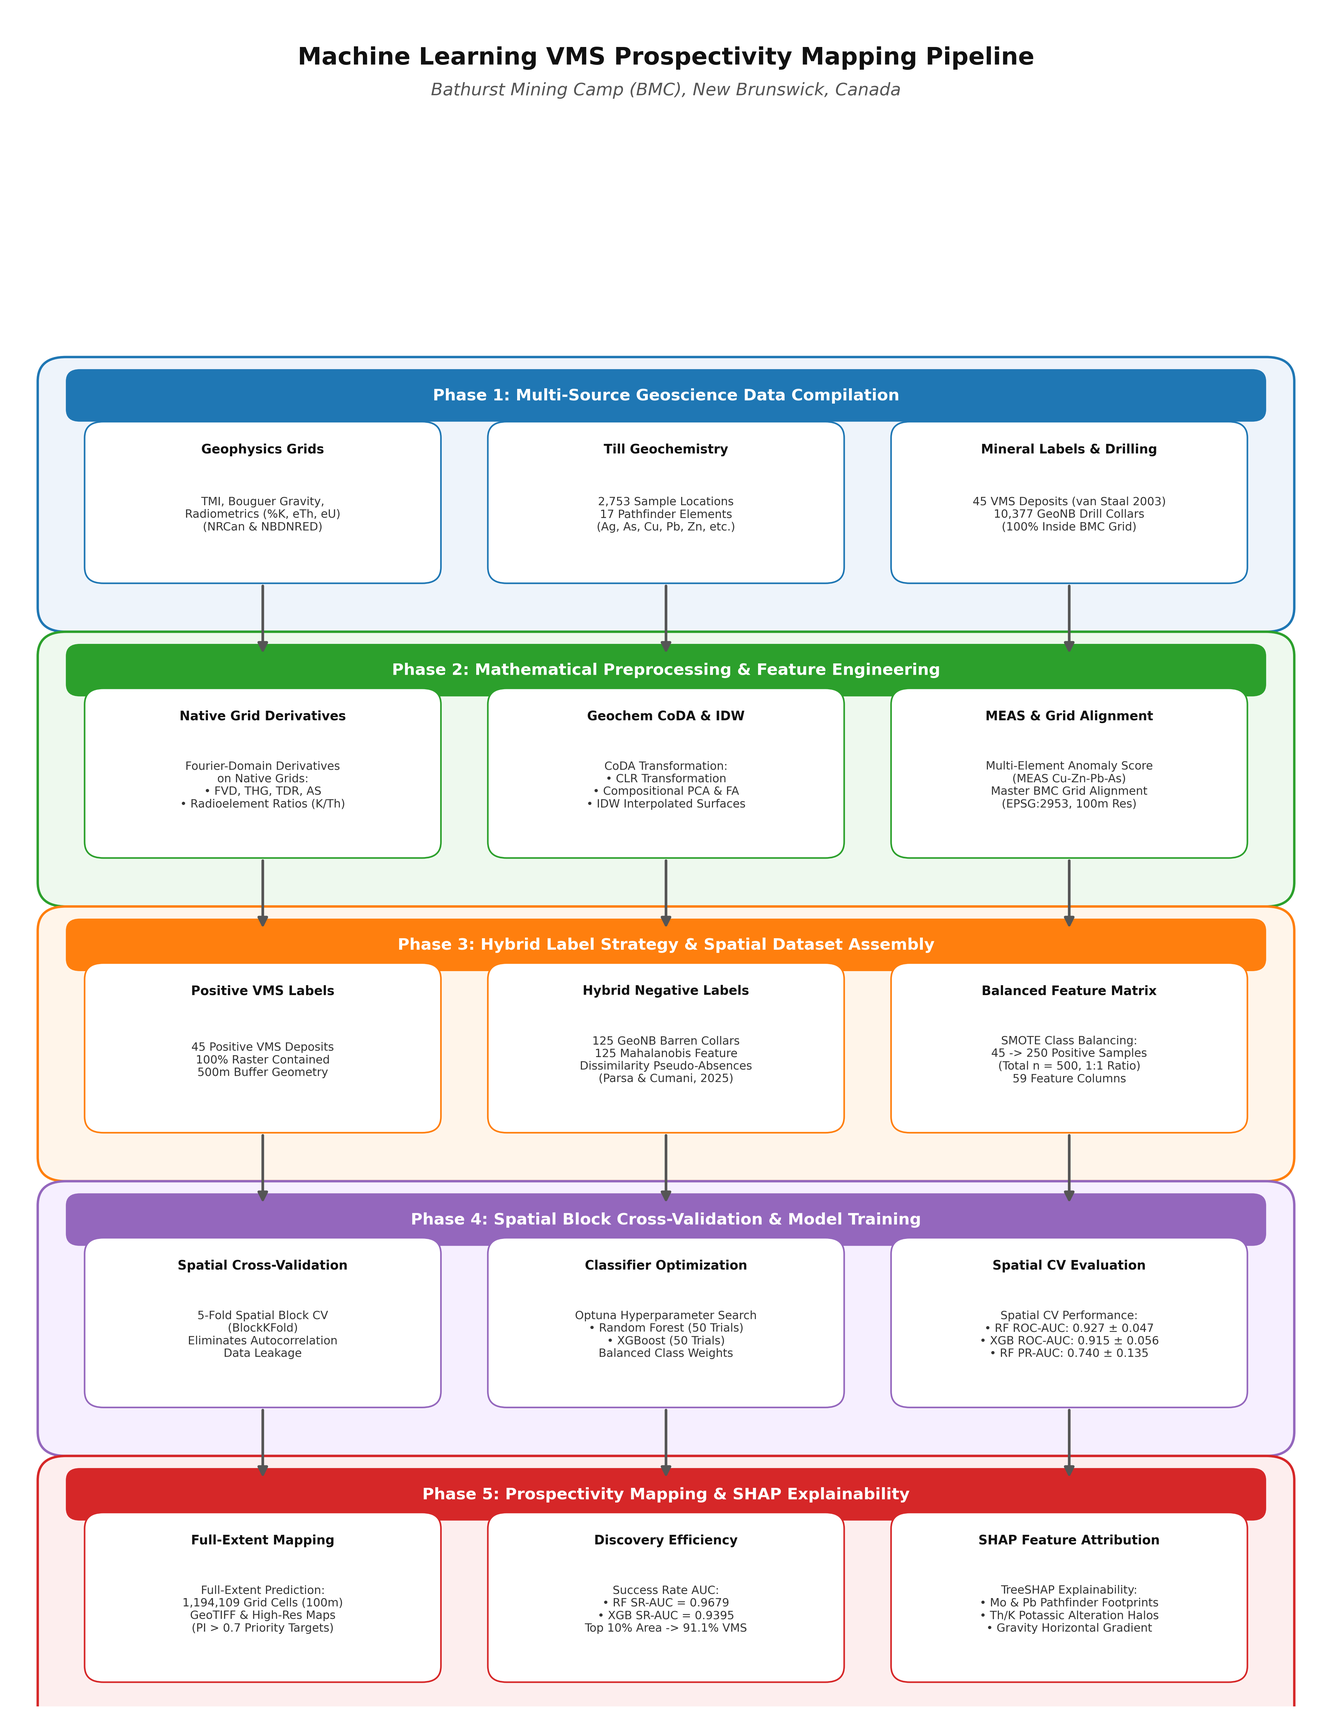
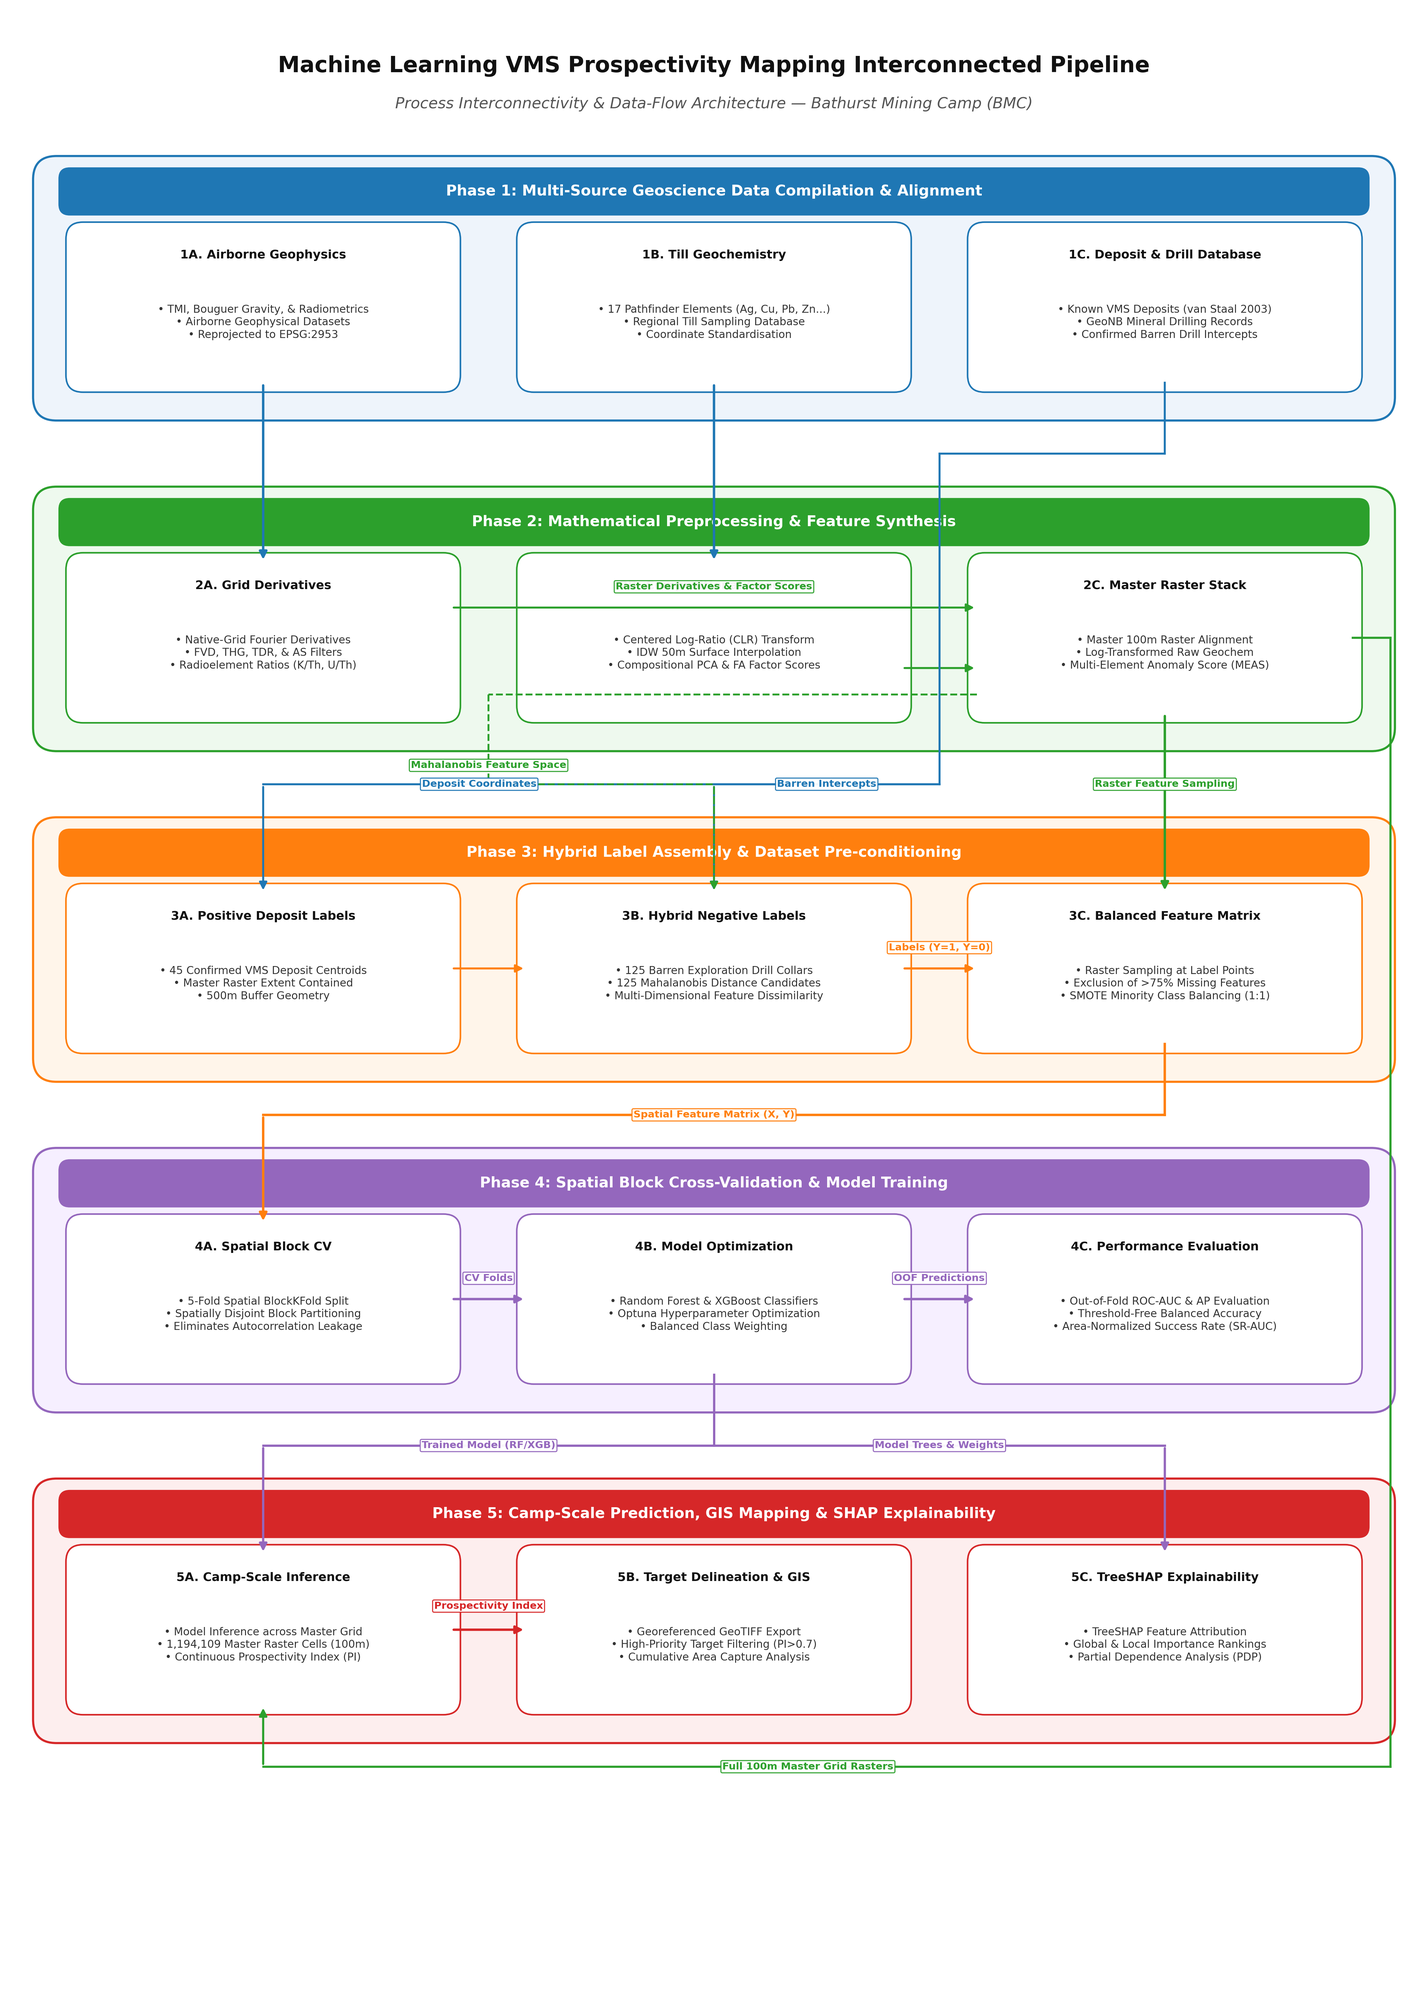
feat: add script to generate interconnected workflow diagram and update project visualization

diff --git a/pipeline/generate_workflow_diagram.py b/pipeline/generate_workflow_diagram.py
@@ -1,134 +1,214 @@
 """
 generate_workflow_diagram.py
 ──────────────────────────────
-Generates a crisp, publication-quality workflow flowchart (workflow.png)
+Generates an interconnected, publication-quality workflow flowchart (workflow.png)
 for the VMS Deposit Prospectivity Mapping pipeline in the Bathurst Mining Camp.
+Demonstrates clear data flow, cross-phase dependencies, and process interconnectivity.
 """
 
+import os
+import shutil
 import matplotlib.pyplot as plt
 import matplotlib.patches as patches
 
 def draw_workflow():
-    fig, ax = plt.subplots(figsize=(14, 18), dpi=300)
-    ax.set_xlim(0, 14)
-    ax.set_ylim(0, 18)
+    fig, ax = plt.subplots(figsize=(15, 21), dpi=300)
+    ax.set_xlim(0, 15)
+    ax.set_ylim(0, 21)
     ax.axis("off")
 
-    # Colors
+    # Palette
     c_blue = "#1f77b4"
     c_green = "#2ca02c"
     c_orange = "#ff7f0e"
     c_purple = "#9467bd"
     c_red = "#d62728"
-    c_dark = "#222222"
     
-    bg_box = "#f8f9fa"
-    border_color = "#cccccc"
+    # Title & Subtitle
+    ax.text(7.5, 20.4, "Machine Learning VMS Prospectivity Mapping Interconnected Pipeline", 
+            ha="center", va="center", fontsize=16.5, fontweight="bold", color="#111111")
+    ax.text(7.5, 20.0, "Process Interconnectivity & Data-Flow Architecture — Bathurst Mining Camp (BMC)", 
+            ha="center", va="center", fontsize=11.5, fontstyle="italic", color="#555555")
 
-    # Title
-    ax.text(7, 17.4, "Machine Learning VMS Prospectivity Mapping Pipeline", 
-            ha="center", va="center", fontsize=18, fontweight="bold", color="#111111")
-    ax.text(7, 17.0, "Bathurst Mining Camp (BMC), New Brunswick, Canada", 
-            ha="center", va="center", fontsize=13, fontstyle="italic", color="#555555")
-
-    # Pipeline Phase Container Boxes
+    # Phase Container Box Specifications
     phases = [
-        ("Phase 1: Multi-Source Geoscience Data Compilation", 13.5, 3.0, "#eef4fb", c_blue),
-        ("Phase 2: Mathematical Preprocessing & Feature Engineering", 10.1, 3.0, "#eef9ee", c_green),
-        ("Phase 3: Hybrid Label Strategy & Spatial Dataset Assembly", 6.7, 3.0, "#fff5ea", c_orange),
-        ("Phase 4: Spatial Block Cross-Validation & Model Training", 3.3, 3.0, "#f6efff", c_purple),
-        ("Phase 5: Prospectivity Mapping & SHAP Explainability", -0.1, 3.0, "#fdeeee", c_red),
+        ("Phase 1: Multi-Source Geoscience Data Compilation & Alignment", 19.3, 2.5, "#eef4fb", c_blue),
+        ("Phase 2: Mathematical Preprocessing & Feature Synthesis", 15.8, 2.5, "#eef9ee", c_green),
+        ("Phase 3: Hybrid Label Assembly & Dataset Pre-conditioning", 12.3, 2.5, "#fff5ea", c_orange),
+        ("Phase 4: Spatial Block Cross-Validation & Model Training", 8.8, 2.5, "#f6efff", c_purple),
+        ("Phase 5: Camp-Scale Prediction, GIS Mapping & SHAP Explainability", 5.3, 2.5, "#fdeeee", c_red),
     ]
 
+    # Draw Phase Banners & Containers
     for title, y_top, height, bg_color, header_color in phases:
         rect = patches.FancyBboxPatch(
-            (0.5, y_top - height), 13.0, height,
-            boxstyle="round,pad=0.2,rounding_size=0.3",
-            facecolor=bg_color, edgecolor=header_color, linewidth=1.8, zorder=1
+            (0.4, y_top - height), 14.2, height,
+            boxstyle="round,pad=0.15,rounding_size=0.25",
+            facecolor=bg_color, edgecolor=header_color, linewidth=1.6, zorder=1
         )
         ax.add_patch(rect)
         
-        # Phase Header Banner
         banner = patches.FancyBboxPatch(
-            (0.7, y_top - 0.5), 12.6, 0.45,
-            boxstyle="round,pad=0.1,rounding_size=0.15",
+            (0.6, y_top - 0.4), 13.8, 0.35,
+            boxstyle="round,pad=0.08,rounding_size=0.12",
             facecolor=header_color, edgecolor="none", zorder=2
         )
         ax.add_patch(banner)
-        ax.text(7.0, y_top - 0.28, title, ha="center", va="center", 
-                fontsize=12, fontweight="bold", color="white", zorder=3)
+        ax.text(7.5, y_top - 0.225, title, ha="center", va="center", 
+                fontsize=11.0, fontweight="bold", color="white", zorder=3)
 
-    # Box Helper Function
-    def add_card(x, y, w, h, text, title="", color="#ffffff", border="#444444", font_size=9.5):
+    # Card Helper Function
+    def add_card(x, y, w, h, text, title="", border="#444444", font_size=8.5):
         card = patches.FancyBboxPatch(
             (x, y), w, h,
-            boxstyle="round,pad=0.1,rounding_size=0.2",
-            facecolor=color, edgecolor=border, linewidth=1.2, zorder=4
+            boxstyle="round,pad=0.1,rounding_size=0.18",
+            facecolor="#ffffff", edgecolor=border, linewidth=1.2, zorder=4
         )
         ax.add_patch(card)
         if title:
             ax.text(x + w/2, y + h - 0.25, title, ha="center", va="center", 
-                    fontsize=font_size, fontweight="bold", color="#111111", zorder=5)
-            ax.text(x + w/2, y + (h - 0.3)/2, text, ha="center", va="center", 
-                    fontsize=font_size - 1, color="#333333", zorder=5, multialignment="center")
+                    fontsize=font_size + 0.5, fontweight="bold", color="#111111", zorder=5)
+            ax.text(x + w/2, y + (h - 0.32)/2, text, ha="center", va="center", 
+                    fontsize=font_size - 0.5, color="#333333", zorder=5, multialignment="center", linespacing=1.25)
         else:
             ax.text(x + w/2, y + h/2, text, ha="center", va="center", 
-                    fontsize=font_size, color="#111111", zorder=5, multialignment="center")
+                    fontsize=font_size, color="#111111", zorder=5, multialignment="center", linespacing=1.25)
 
-    # Arrow Helper Function
-    def add_arrow(x1, y1, x2, y2, color="#555555"):
+    # Arrow Connection Helper
+    def draw_arrow(x1, y1, x2, y2, color="#444444", style="-|>", lw=1.5, ls="-"):
         ax.annotate("", xy=(x2, y2), xytext=(x1, y1),
-                    arrowprops=dict(arrowstyle="-|>", color=color, lw=2.0, mutation_scale=15),
+                    arrowprops=dict(arrowstyle=style, color=color, lw=lw, linestyle=ls,
+                                    mutation_scale=12),
                     zorder=6)
 
-    # ── Phase 1 Content ──
-    add_card(0.9, 11.0, 3.6, 1.8, "TMI, Bouguer Gravity,\nRadiometrics (%K, eTh, eU)\n(NRCan & NBDNRED)", "Geophysics Grids", "#ffffff", c_blue)
-    add_card(5.2, 11.0, 3.6, 1.8, "2,753 Sample Locations\n17 Pathfinder Elements\n(Ag, As, Cu, Pb, Zn, etc.)", "Till Geochemistry", "#ffffff", c_blue)
-    add_card(9.5, 11.0, 3.6, 1.8, "45 VMS Deposits (van Staal 2003)\n10,377 GeoNB Drill Collars\n(100% Inside BMC Grid)", "Mineral Labels & Drilling", "#ffffff", c_blue)
+    # Multi-segment Orthogonal Path Helper
+    def draw_path(points, color="#444444", style="-|>", lw=1.5, ls="-"):
+        for i in range(len(points) - 2):
+            ax.plot([points[i][0], points[i+1][0]], [points[i][1], points[i+1][1]],
+                    color=color, lw=lw, linestyle=ls, zorder=6)
+        draw_arrow(points[-2][0], points[-2][1], points[-1][0], points[-1][1],
+                   color=color, style=style, lw=lw, ls=ls)
 
-    add_arrow(2.7, 10.9, 2.7, 10.0)
-    add_arrow(7.0, 10.9, 7.0, 10.0)
-    add_arrow(11.3, 10.9, 11.3, 10.0)
+    # Label on Arrow Helper
+    def add_arrow_label(x, y, text, color="#222222", bg="#ffffff", border="#aaaaaa", font_size=7.5):
+        ax.text(x, y, text, ha="center", va="center", fontsize=font_size, fontweight="bold",
+                color=color, zorder=7,
+                bbox=dict(boxstyle="round,pad=0.15", facecolor=bg, edgecolor=border, lw=0.8, alpha=0.95))
 
-    # ── Phase 2 Content ──
-    add_card(0.9, 7.6, 3.6, 1.9, "Fourier-Domain Derivatives\non Native Grids:\n• FVD, THG, TDR, AS\n• Radioelement Ratios (K/Th)", "Native Grid Derivatives", "#ffffff", c_green)
-    add_card(5.2, 7.6, 3.6, 1.9, "CoDA Transformation:\n• CLR Transformation\n• Compositional PCA & FA\n• IDW Interpolated Surfaces", "Geochem CoDA & IDW", "#ffffff", c_green)
-    add_card(9.5, 7.6, 3.6, 1.9, "Multi-Element Anomaly Score\n(MEAS Cu-Zn-Pb-As)\nMaster BMC Grid Alignment\n(EPSG:2953, 100m Res)", "MEAS & Grid Alignment", "#ffffff", c_green)
+    # ── CARDS POSITIONING ──
+    w_card = 4.0
+    h_card = 1.6
+    
+    # Phase 1 Cards (y_top=19.3, cards y=17.05)
+    y_p1 = 17.05
+    add_card(0.7, y_p1, w_card, h_card, "• TMI, Bouguer Gravity, & Radiometrics\n• Airborne Geophysical Datasets\n• Reprojected to EPSG:2953", "1A. Airborne Geophysics", c_blue)
+    add_card(5.5, y_p1, w_card, h_card, "• 17 Pathfinder Elements (Ag, Cu, Pb, Zn...)\n• Regional Till Sampling Database\n• Coordinate Standardisation", "1B. Till Geochemistry", c_blue)
+    add_card(10.3, y_p1, w_card, h_card, "• Known VMS Deposits (van Staal 2003)\n• GeoNB Mineral Drilling Records\n• Confirmed Barren Drill Intercepts", "1C. Deposit & Drill Database", c_blue)
 
-    add_arrow(2.7, 7.5, 2.7, 6.6)
-    add_arrow(7.0, 7.5, 7.0, 6.6)
-    add_arrow(11.3, 7.5, 11.3, 6.6)
+    # Phase 2 Cards (y_top=15.8, cards y=13.55)
+    y_p2 = 13.55
+    add_card(0.7, y_p2, w_card, h_card, "• Native-Grid Fourier Derivatives\n• FVD, THG, TDR, & AS Filters\n• Radioelement Ratios (K/Th, U/Th)", "2A. Grid Derivatives", c_green)
+    add_card(5.5, y_p2, w_card, h_card, "• Centered Log-Ratio (CLR) Transform\n• IDW 50m Surface Interpolation\n• Compositional PCA & FA Factor Scores", "2B. Compositional Geochem", c_green)
+    add_card(10.3, y_p2, w_card, h_card, "• Master 100m Raster Alignment\n• Log-Transformed Raw Geochem\n• Multi-Element Anomaly Score (MEAS)", "2C. Master Raster Stack", c_green)
 
-    # ── Phase 3 Content ──
-    add_card(0.9, 4.2, 3.6, 1.9, "45 Positive VMS Deposits\n100% Raster Contained\n500m Buffer Geometry", "Positive VMS Labels", "#ffffff", c_orange)
-    add_card(5.2, 4.2, 3.6, 1.9, "125 GeoNB Barren Collars\n125 Mahalanobis Feature\nDissimilarity Pseudo-Absences\n(Parsa & Cumani, 2025)", "Hybrid Negative Labels", "#ffffff", c_orange)
-    add_card(9.5, 4.2, 3.6, 1.9, "SMOTE Class Balancing:\n45 -> 250 Positive Samples\n(Total n = 500, 1:1 Ratio)\n59 Feature Columns", "Balanced Feature Matrix", "#ffffff", c_orange)
+    # Phase 3 Cards (y_top=12.3, cards y=10.05)
+    y_p3 = 10.05
+    add_card(0.7, y_p3, w_card, h_card, "• 45 Confirmed VMS Deposit Centroids\n• Master Raster Extent Contained\n• 500m Buffer Geometry", "3A. Positive Deposit Labels", c_orange)
+    add_card(5.5, y_p3, w_card, h_card, "• 125 Barren Exploration Drill Collars\n• 125 Mahalanobis Distance Candidates\n• Multi-Dimensional Feature Dissimilarity", "3B. Hybrid Negative Labels", c_orange)
+    add_card(10.3, y_p3, w_card, h_card, "• Raster Sampling at Label Points\n• Exclusion of >75% Missing Features\n• SMOTE Minority Class Balancing (1:1)", "3C. Balanced Feature Matrix", c_orange)
 
-    add_arrow(2.7, 4.1, 2.7, 3.2)
-    add_arrow(7.0, 4.1, 7.0, 3.2)
-    add_arrow(11.3, 4.1, 11.3, 3.2)
+    # Phase 4 Cards (y_top=8.8, cards y=6.55)
+    y_p4 = 6.55
+    add_card(0.7, y_p4, w_card, h_card, "• 5-Fold Spatial BlockKFold Split\n• Spatially Disjoint Block Partitioning\n• Eliminates Autocorrelation Leakage", "4A. Spatial Block CV", c_purple)
+    add_card(5.5, y_p4, w_card, h_card, "• Random Forest & XGBoost Classifiers\n• Optuna Hyperparameter Optimization\n• Balanced Class Weighting", "4B. Model Optimization", c_purple)
+    add_card(10.3, y_p4, w_card, h_card, "• Out-of-Fold ROC-AUC & AP Evaluation\n• Threshold-Free Balanced Accuracy\n• Area-Normalized Success Rate (SR-AUC)", "4C. Performance Evaluation", c_purple)
 
-    # ── Phase 4 Content ──
-    add_card(0.9, 0.8, 3.6, 1.9, "5-Fold Spatial Block CV\n(BlockKFold)\nEliminates Autocorrelation\nData Leakage", "Spatial Cross-Validation", "#ffffff", c_purple)
-    add_card(5.2, 0.8, 3.6, 1.9, "Optuna Hyperparameter Search\n• Random Forest (50 Trials)\n• XGBoost (50 Trials)\nBalanced Class Weights", "Classifier Optimization", "#ffffff", c_purple)
-    add_card(9.5, 0.8, 3.6, 1.9, "Spatial CV Performance:\n• RF ROC-AUC: 0.927 ± 0.047\n• XGB ROC-AUC: 0.915 ± 0.056\n• RF PR-AUC: 0.740 ± 0.135", "Spatial CV Evaluation", "#ffffff", c_purple)
+    # Phase 5 Cards (y_top=5.3, cards y=3.05)
+    y_p5 = 3.05
+    add_card(0.7, y_p5, w_card, h_card, "• Model Inference across Master Grid\n• 1,194,109 Master Raster Cells (100m)\n• Continuous Prospectivity Index (PI)", "5A. Camp-Scale Inference", c_red)
+    add_card(5.5, y_p5, w_card, h_card, "• Georeferenced GeoTIFF Export\n• High-Priority Target Filtering (PI>0.7)\n• Cumulative Area Capture Analysis", "5B. Target Delineation & GIS", c_red)
+    add_card(10.3, y_p5, w_card, h_card, "• TreeSHAP Feature Attribution\n• Global & Local Importance Rankings\n• Partial Dependence Analysis (PDP)", "5C. TreeSHAP Explainability", c_red)
 
-    add_arrow(2.7, 0.7, 2.7, -0.2)
-    add_arrow(7.0, 0.7, 7.0, -0.2)
-    add_arrow(11.3, 0.7, 11.3, -0.2)
+    # ── CLEAN ORTHOGONAL INTERCONNECTIVITY ROUTING ──
 
-    # ── Phase 5 Content ──
-    add_card(0.9, -2.6, 3.6, 1.9, "Full-Extent Prediction:\n1,194,109 Grid Cells (100m)\nGeoTIFF & High-Res Maps\n(PI > 0.7 Priority Targets)", "Full-Extent Mapping", "#ffffff", c_red)
-    add_card(5.2, -2.6, 3.6, 1.9, "Success Rate AUC:\n• RF SR-AUC = 0.9679\n• XGB SR-AUC = 0.9395\nTop 10% Area -> 91.1% VMS", "Discovery Efficiency", "#ffffff", c_red)
-    add_card(9.5, -2.6, 3.6, 1.9, "TreeSHAP Explainability:\n• Mo & Pb Pathfinder Footprints\n• Th/K Potassic Alteration Halos\n• Gravity Horizontal Gradient", "SHAP Feature Attribution", "#ffffff", c_red)
+    # 1. Geophysics (1A) -> Grid Derivatives (2A)
+    draw_arrow(2.7, y_p1, 2.7, y_p2 + h_card, color=c_blue, lw=1.8)
 
-    # Adjust plot limits for negative Y
-    ax.set_ylim(-3.0, 18.0)
+    # 2. Till Geochemistry (1B) -> Compositional Geochem (2B)
+    draw_arrow(7.5, y_p1, 7.5, y_p2 + h_card, color=c_blue, lw=1.8)
+
+    # 3. Derivatives (2A) & Geochem (2B) -> Master Raster Stack (2C)
+    draw_arrow(4.7, y_p2 + h_card*0.7, 10.3, y_p2 + h_card*0.7, color=c_green, lw=1.5)
+    draw_arrow(9.5, y_p2 + h_card*0.3, 10.3, y_p2 + h_card*0.3, color=c_green, lw=1.5)
+    add_arrow_label(7.5, y_p2 + h_card*0.7 + 0.22, "Raster Derivatives & Factor Scores", color=c_green, border=c_green)
+
+    # 4. Deposit & Drill DB (1C) -> Positive (3A) & Negative Labels (3B)
+    # Route through whitespace midpoint y = 12.8 (between Phase 2 container & Phase 3 banner)
+    draw_path([(12.3, y_p1), (12.3, 16.3), (9.9, 16.3), (9.9, 12.8), (2.7, 12.8), (2.7, y_p3 + h_card)], color=c_blue, lw=1.5)
+    add_arrow_label(5.0, 12.8, "Deposit Coordinates", color=c_blue, border=c_blue)
+    
+    draw_path([(9.9, 12.8), (7.5, 12.8), (7.5, y_p3 + h_card)], color=c_blue, lw=1.5)
+    add_arrow_label(8.7, 12.8, "Barren Intercepts", color=c_blue, border=c_blue)
+
+    # 5. Master Raster Stack (2C) -> Hybrid Negative Labels (3B) [Mahalanobis Feature Space]
+    # Route through y = 13.0 above Phase 3 container
+    draw_path([(10.3, y_p2 + 0.2), (5.1, y_p2 + 0.2), (5.1, 12.8), (7.5, 12.8), (7.5, y_p3 + h_card)], color=c_green, lw=1.4, ls="--")
+    add_arrow_label(5.1, 13.0, "Mahalanobis Feature Space", color=c_green, border=c_green)
+
+    # 6. Master Raster Stack (2C) -> Balanced Feature Matrix (3C) [Raster Feature Sampling]
+    draw_arrow(12.3, y_p2, 12.3, y_p3 + h_card, color=c_green, lw=1.8)
+    add_arrow_label(12.3, 12.8, "Raster Feature Sampling", color=c_green, border=c_green)
+
+    # 7. Labels (3A & 3B) -> Balanced Feature Matrix (3C)
+    draw_arrow(4.7, y_p3 + h_card/2, 5.5, y_p3 + h_card/2, color=c_orange, lw=1.5)
+    draw_arrow(9.5, y_p3 + h_card/2, 10.3, y_p3 + h_card/2, color=c_orange, lw=1.6)
+    add_arrow_label(9.9, y_p3 + h_card/2 + 0.22, "Labels (Y=1, Y=0)", color=c_orange, border=c_orange)
+
+    # 8. Balanced Feature Matrix (3C) -> Spatial Block CV (4A)
+    # Route through whitespace midpoint y = 9.3
+    draw_path([(12.3, y_p3), (12.3, 9.3), (2.7, 9.3), (2.7, y_p4 + h_card)], color=c_orange, lw=1.8)
+    add_arrow_label(7.5, 9.3, "Spatial Feature Matrix (X, Y)", color=c_orange, border=c_orange)
+
+    # 9. Spatial Block CV (4A) -> Model Optimization (4B) -> Performance Evaluation (4C)
+    draw_arrow(4.7, y_p4 + h_card/2, 5.5, y_p4 + h_card/2, color=c_purple, lw=1.8)
+    add_arrow_label(5.1, y_p4 + h_card/2 + 0.22, "CV Folds", color=c_purple, border=c_purple)
+
+    draw_arrow(9.5, y_p4 + h_card/2, 10.3, y_p4 + h_card/2, color=c_purple, lw=1.8)
+    add_arrow_label(9.9, y_p4 + h_card/2 + 0.22, "OOF Predictions", color=c_purple, border=c_purple)
+
+    # 10. Model Optimization (4B) [Trained Classifiers] -> Camp-Scale Inference (5A) & TreeSHAP (5C)
+    # Route through whitespace midpoint y = 5.8
+    draw_path([(7.5, y_p4), (7.5, 5.8), (2.7, 5.8), (2.7, y_p5 + h_card)], color=c_purple, lw=1.7)
+    add_arrow_label(5.1, 5.8, "Trained Model (RF/XGB)", color=c_purple, border=c_purple)
+
+    draw_path([(7.5, 5.8), (12.3, 5.8), (12.3, y_p5 + h_card)], color=c_purple, lw=1.7)
+    add_arrow_label(9.9, 5.8, "Model Trees & Weights", color=c_purple, border=c_purple)
+
+    # 11. Master Raster Stack (2C) -> Camp-Scale Inference (5A) [Full Master Grid Rasters]
+    # Route down the right margin (x = 14.7)
+    draw_path([(14.3, y_p2 + h_card/2), (14.7, y_p2 + h_card/2), (14.7, 2.4), (2.7, 2.4), (2.7, y_p5)], color=c_green, lw=1.6)
+    add_arrow_label(8.5, 2.4, "Full 100m Master Grid Rasters", color=c_green, border=c_green)
+
+    # 12. Camp-Scale Inference (5A) -> Target Delineation & GIS (5B)
+    draw_arrow(4.7, y_p5 + h_card/2, 5.5, y_p5 + h_card/2, color=c_red, lw=1.8)
+    add_arrow_label(5.1, y_p5 + h_card/2 + 0.25, "Prospectivity Index", color=c_red, border=c_red)
 
     plt.tight_layout()
-    plt.savefig("workflow.png", dpi=300, bbox_inches="tight")
+    output_path = "workflow.png"
+    plt.savefig(output_path, dpi=300, bbox_inches="tight")
     plt.close()
-    print("Successfully generated workflow.png")
+    print(f"Successfully generated {output_path}")
+
+    # Copy to target directories if they exist
+    destinations = [
+        r"c:\Users\delef\.gemini\antigravity\brain\fee87920-985b-47de-af6f-868d6a640943\workflow.png",
+        r"C:\Users\delef\.gemini\antigravity-ide\brain\8ecc03ec-6bbe-4e1d-a5e3-3772be6ca400\workflow.png"
+    ]
+    for dest in destinations:
+        dest_dir = os.path.dirname(dest)
+        if os.path.exists(dest_dir):
+            shutil.copy(output_path, dest)
+            print(f"Copied workflow.png to {dest}")
 
 if __name__ == "__main__":
     draw_workflow()
